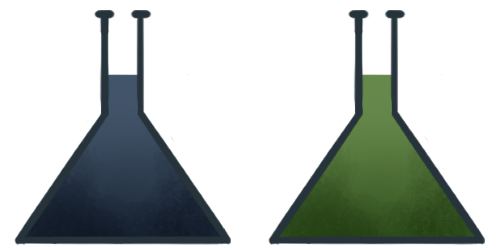
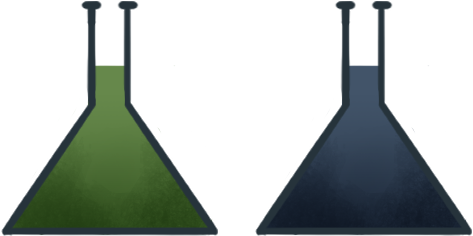
Make drag and drop function. Close #11

diff --git a/Chemical puzzle/_build/menu.cpp b/Chemical puzzle/_build/menu.cpp
@@ -10,13 +10,12 @@ void drawMenu(Texture2D menuBackground)
     DrawText("Created by team Tatooine", 710, 550, 40, DARKGRAY);
 }
 
-bool switchToGame(Texture2D menuBackground, Texture2D levelBackground, Texture2D container, Texture2D elementsContainerOne, Texture2D elementsContainerTwo, bool checkEnter)
+bool switchToGame(Texture2D menuBackground, Texture2D levelBackground, Texture2D container, Texture2D elementsContainers, bool checkEnter, Vector2 elementsPos, Vector2 containerPos)
 {
     if (IsKeyPressed(KEY_ENTER) || checkEnter == 1)
     {
         drawLevelBackground(levelBackground);
-        drawGameElements(container, elementsContainerOne, elementsContainerTwo);
-        //dragAndDropElements(container, elementsContainerOne, elementsContainerTwo);
+        drawGameElements(container, elementsContainers, elementsPos, containerPos);
         return 1;
     }
     else
@@ -37,18 +36,25 @@ void startGame()
     Texture2D menuBackground = LoadTexture("../resources/menuBackground.png");
     Texture2D levelBackground = LoadTexture("../resources/levelBackground.png");
     Texture2D container = LoadTexture("../resources/container.png");
-    Texture2D elementsContainerOne = LoadTexture("../resources/elementsContainerOne.png");
-    Texture2D elementsContainerTwo = LoadTexture("../resources/elementsContainerTwo.png");
+    Texture2D elementsContainers = LoadTexture("../resources/elementsContainers.png");
+
+    Vector2 mousePos = {-100, -100};
+    Vector2 elementsPos = { 300, 800 };
+    Vector2 containerPos = { 300, 300 };
 
     bool checkEnter = 0;
 
     while (!WindowShouldClose())
     {
+        mousePos = GetMousePosition();
+
+        elementsPos = dragAndDropElements(mousePos, elementsPos, containerPos);
+
         BeginDrawing();
 
         ClearBackground(RAYWHITE);
 
-        checkEnter = switchToGame(menuBackground, levelBackground, container, elementsContainerOne, elementsContainerTwo, checkEnter);
+        checkEnter = switchToGame(menuBackground, levelBackground, container, elementsContainers, checkEnter, elementsPos, containerPos);
 
         EndDrawing();
     }
@@ -56,8 +62,7 @@ void startGame()
     UnloadTexture(menuBackground); 
     UnloadTexture(levelBackground);
     UnloadTexture(container);
-    UnloadTexture(elementsContainerOne);
-    UnloadTexture(elementsContainerTwo);
+    UnloadTexture(elementsContainers);
 
     CloseWindow();
 }

diff --git a/Chemical puzzle/_build/levelFunctions.cpp b/Chemical puzzle/_build/levelFunctions.cpp
@@ -5,9 +5,38 @@ void drawLevelBackground(Texture2D levelBackground)
 	DrawTexture(levelBackground, 0, 0, RAYWHITE);
 }
 
-void drawGameElements(Texture2D container, Texture2D containerElementOne, Texture2D containerElementTwo)
+void drawGameElements(Texture2D container, Texture2D elementsContainers, Vector2 elementsPos, Vector2 containerPos)
 {
-	DrawTexture(container, 300, 300, RAYWHITE);
-	DrawTexture(containerElementOne, 300, 800, RAYWHITE);
-	DrawTexture(containerElementTwo, 600, 800, RAYWHITE);
+    Rectangle elements = { 0, 0, elementsContainers.width / 2, elementsContainers.height };
+    Rectangle elementsCollision = { elementsPos.x, elementsPos.y, elementsContainers.width / 2, elementsContainers.height };
+    Rectangle containerRec = { 0, 0, container.width, container.height };
+    Rectangle containerCollision = { containerPos.x, containerPos.y, container.width, container.height };
+
+    Vector2 centerElementsColl = { float(elementsContainers.width / 4), float(elementsContainers.height / 2) };
+    Vector2 centerContainerColl = { float(container.width / 2), float(container.height / 2) };
+
+	DrawTexturePro(container, containerRec, containerCollision, centerContainerColl, 0, RAYWHITE);
+    DrawTexturePro(elementsContainers, elements, elementsCollision, centerElementsColl, 0, RAYWHITE);
 }
+
+Vector2 dragAndDropElements(Vector2 mousePos, Vector2 elementsPos, Vector2 containerPos)
+{
+        if (CheckCollisionPointCircle(mousePos, elementsPos, 100))
+        {
+            if (IsMouseButtonDown(MOUSE_BUTTON_LEFT))
+            {
+                elementsPos = mousePos;
+            }
+        }
+
+        if (IsMouseButtonReleased(MOUSE_BUTTON_LEFT))
+        {
+            if (CheckCollisionCircles(elementsPos, 100, containerPos, 100))
+            {
+                elementsPos = containerPos;
+            }
+        }
+
+    return elementsPos;
+}
+

diff --git a/Chemical puzzle/_build/levelFunctions.h b/Chemical puzzle/_build/levelFunctions.h
@@ -3,4 +3,6 @@
 #include "raylib.h"
 
 void drawLevelBackground(Texture2D levelBackground);
-void drawGameElements(Texture2D container, Texture2D containerElementOne, Texture2D containerElementTwo);
+void drawGameElements(Texture2D container, Texture2D elementsContainers, Vector2 elementsPos, Vector2 containerPos);
+
+Vector2 dragAndDropElements(Vector2 mousePos, Vector2 elementsPos, Vector2 containerPos);

diff --git a/Chemical puzzle/_build/levelOne.h b/Chemical puzzle/_build/levelOne.h
@@ -2,5 +2,3 @@
 
 #include "raylib.h"
 #include "levelFunctions.h"
-
-void dragAndDropElements(Texture2D container, Texture2D elementsContainerOne, Texture2D elementsContainerTwo);
